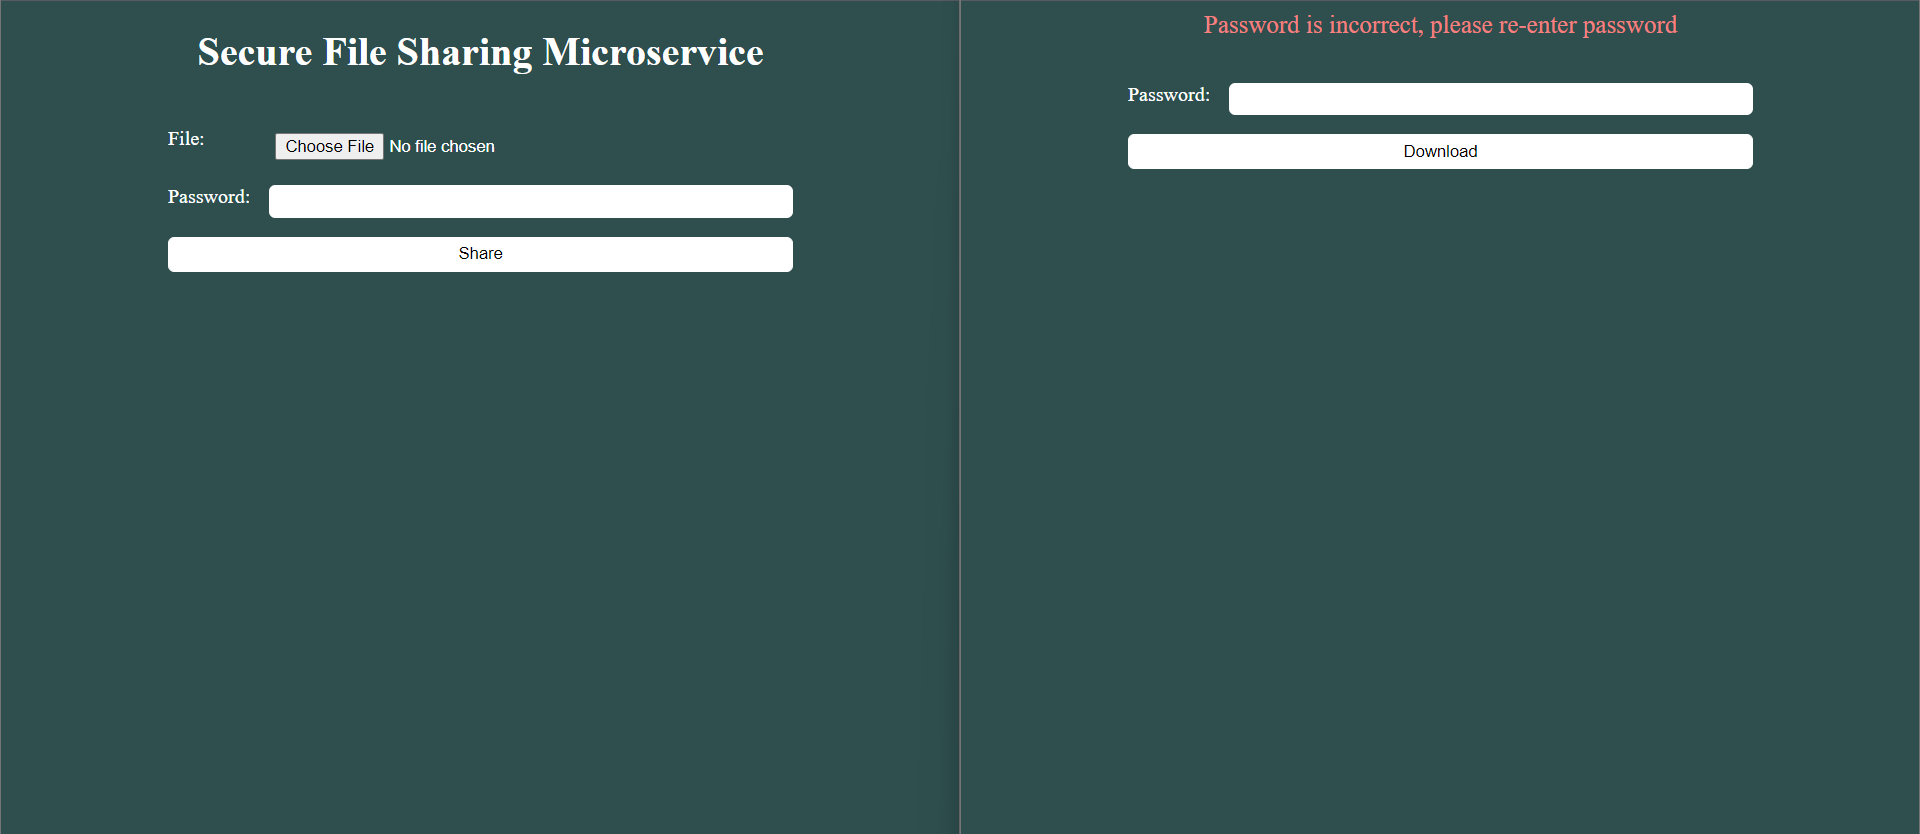
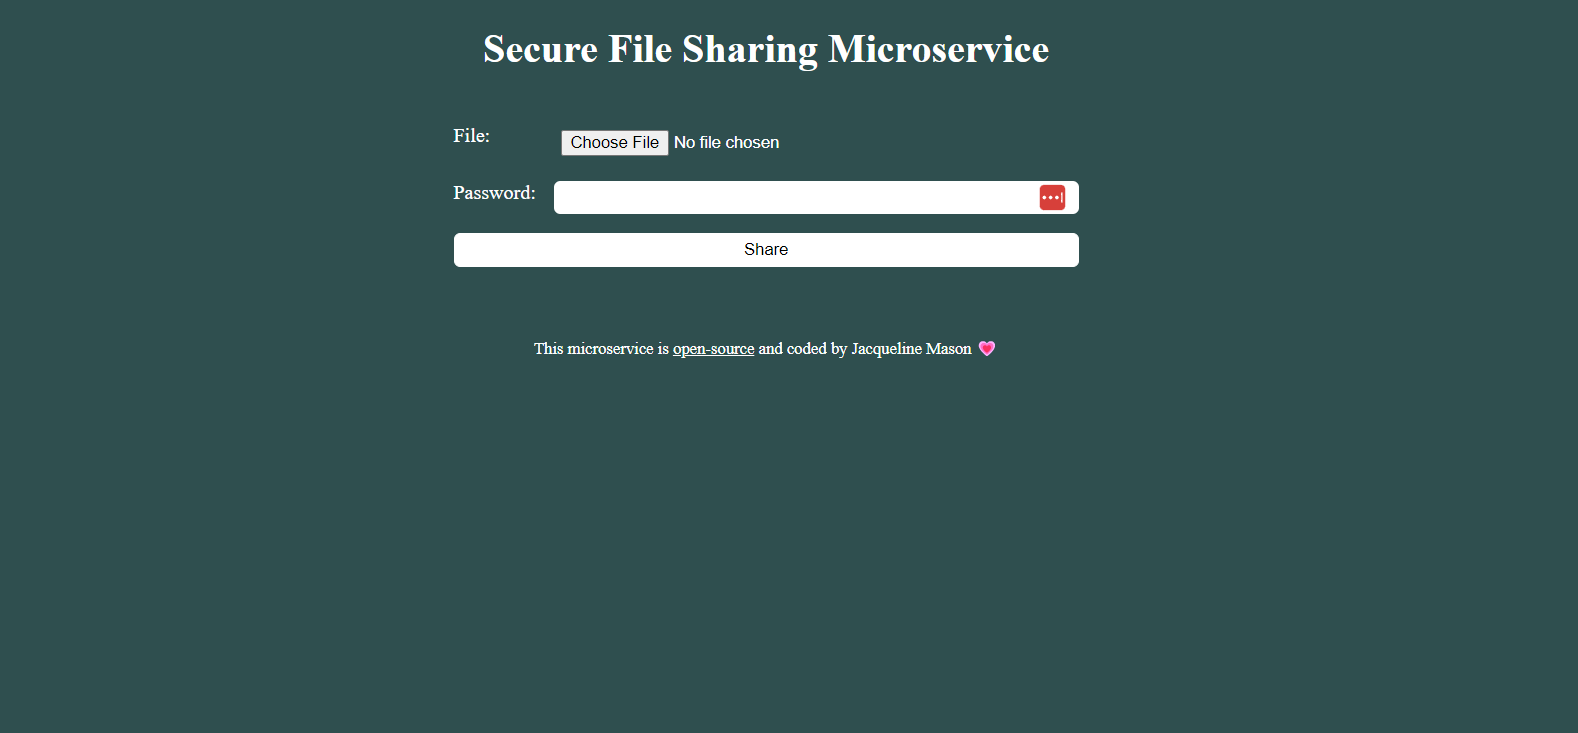
Finalized pages and added images to  Other Projects page

diff --git a/index.html b/index.html
@@ -69,8 +69,9 @@
           />
           <p>
             <i class="fa-solid fa-terminal"></i> Web Developer <br />
-            <i class="fa-solid fa-terminal"></i> Entrepreneurial <br />
-            <i class="fa-solid fa-terminal"></i> Mother <br />
+            <i class="fa-solid fa-terminal"></i> Business Woman <br />
+            <i class="fa-solid fa-terminal"></i> Twitch Streamer & Affiliate
+            <br />
             <i class="fa-solid fa-terminal"></i> PlayStation Gamer <br />
             <br />
           </p>
@@ -81,16 +82,20 @@
             as Rookie Behaviour, or simply... Rookie. No, it has nothing to do
             with my coding skills, but my gaming skills 😂.
           </p>
-          <br />
+
           <p>
             I started my coding journey in 2020 when I taught myself full-stack
             Software Development with freeCodeCamp online. I recently graduated
             from SheCodes where I received my Front-end Development
-            Certification. My interests include: <br />
+            Certification. I ran my own VA business for almost a decade before
+            changing careers so I have a heart for small businesses along with
+            non-profits. My interests include: <br />
             <br />
-            <i class="fa-solid fa-check"></i> Full-stack Web Development
-            <i class="fa-solid fa-check"></i> Front-end
+            <i class="fa-solid fa-check"></i> Full-Stack Web Development
+            <i class="fa-solid fa-check"></i> Front-End
             <i class="fa-solid fa-check"></i> Web Apps
+            <i class="fa-solid fa-check"></i> Responsive Web Design
+            <i class="fa-solid fa-check"></i> UI/UX
           </p>
         </div>
       </section>
@@ -291,7 +296,7 @@
                 </button>
                 <button class="btn btn-background-slide">
                   <a
-                    href="https://github.com/rookiebehaviour/world-clock"
+                    href="https://github.com/rookiebehaviour/superb-portfolio-react"
                     target="_blank"
                     >Source</a
                   >
@@ -342,10 +347,8 @@
               <h3>Cool Animated Buttons</h3>
               <p>Tools & technologies used:</p>
               <ul>
-                <li><i class="fa-solid fa-check"></i> Figma</li>
                 <li><i class="fa-solid fa-check"></i> HTML5</li>
                 <li><i class="fa-solid fa-check"></i> CSS3</li>
-                <li><i class="fa-solid fa-check"></i> Media Queries</li>
               </ul>
               <div class="buttons">
                 <button class="btn btn-background-slide">
@@ -368,26 +371,31 @@
 
           <div class="project-card">
             <div class="project-border">
-              <div class="project-image"></div>
-              <h3>Cool Animated Buttons</h3>
+              <div class="project-image">
+                <img
+                  src="/images/file-sharing-microservice.png"
+                  alt="Portfolio website"
+                />
+              </div>
+              <h3>Secure File Share Microservice</h3>
               <p>Tools & technologies used:</p>
               <ul>
-                <li><i class="fa-solid fa-check"></i> Figma</li>
-                <li><i class="fa-solid fa-check"></i> HTML5</li>
-                <li><i class="fa-solid fa-check"></i> CSS3</li>
-                <li><i class="fa-solid fa-check"></i> Media Queries</li>
+                <li><i class="fa-solid fa-check"></i> Ejs</li>
+                <li><i class="fa-solid fa-check"></i> Node.js</li>
+                <li><i class="fa-solid fa-check"></i> MongoDB</li>
+                <li><i class="fa-solid fa-check"></i> Mongoose</li>
+                <li><i class="fa-solid fa-check"></i> Express</li>
+                <li><i class="fa-solid fa-check"></i> Bcrypt</li>
               </ul>
+              <p>
+                *I'm working on a hosted live demo, but for now you'll have to
+                fork it and host it on your own. You must have MongoDB
+                installed.
+              </p>
               <div class="buttons">
                 <button class="btn btn-background-slide">
                   <a
-                    href="https://codepen.io/jjmason/full/WNKJjKQ"
-                    target="_blank"
-                    >Launch</a
-                  >
-                </button>
-                <button class="btn btn-background-slide">
-                  <a
-                    href="https://github.com/rookiebehaviour/cool-animated-buttons"
+                    href="https://github.com/rookiebehaviour/file-share"
                     target="_blank"
                     >Source</a
                   >
@@ -398,56 +406,30 @@
 
           <div class="project-card">
             <div class="project-border">
-              <div class="project-image"></div>
-              <h3>Portfolio Template (Sneak Peak)</h3>
+              <div class="project-image">
+                <img src="/images/drum-machine.png" alt="Drum Machine" />
+              </div>
+              <h3>Fun Drum Machine</h3>
               <p>Tools & technologies used:</p>
               <ul>
                 <li><i class="fa-solid fa-check"></i> React</li>
-                <li><i class="fa-solid fa-check"></i> Material UI</li>
-                <li><i class="fa-solid fa-check"></i> CSS3</li>
-                <li><i class="fa-solid fa-check"></i> Media Queries</li>
+                <li><i class="fa-solid fa-check"></i> SCSS</li>
               </ul>
-              <div class="buttons">
-                <button class="btn btn-background-slide">
-                  <a
-                    href="https://codepen.io/jjmason/full/WNKJjKQ"
-                    target="_blank"
-                    >Launch</a
-                  >
-                </button>
-                <button class="btn btn-background-slide">
-                  <a
-                    href="https://github.com/rookiebehaviour/cool-animated-buttons"
-                    target="_blank"
-                    >Source</a
-                  >
-                </button>
-              </div>
-            </div>
-          </div>
+              <p>
+                *An oldie, but a goodie. One of my first React Apps from 2020.
+              </p>
 
-          <div class="project-card">
-            <div class="project-border">
-              <div class="project-image"></div>
-              <h3>Cool Animated Buttons</h3>
-              <p>Tools & technologies used:</p>
-              <ul>
-                <li><i class="fa-solid fa-check"></i> Figma</li>
-                <li><i class="fa-solid fa-check"></i> HTML5</li>
-                <li><i class="fa-solid fa-check"></i> CSS3</li>
-                <li><i class="fa-solid fa-check"></i> Media Queries</li>
-              </ul>
               <div class="buttons">
                 <button class="btn btn-background-slide">
                   <a
-                    href="https://codepen.io/jjmason/full/WNKJjKQ"
+                    href="https://codepen.io/jjmason/pen/ExgrMGJ"
                     target="_blank"
                     >Launch</a
                   >
                 </button>
                 <button class="btn btn-background-slide">
                   <a
-                    href="https://github.com/rookiebehaviour/cool-animated-buttons"
+                    href="https://codepen.io/jjmason/full/ExgrMGJ"
                     target="_blank"
                     >Source</a
                   >
@@ -455,6 +437,10 @@
               </div>
             </div>
           </div>
+          <p>
+            If you want to see more projects, please see my Github page. Thank
+            you!
+          </p>
         </div>
       </section>
       <section id="contact" class="contact">
@@ -500,7 +486,8 @@
           <ul>
             <h5>Technologies</h5>
             <li>React.js</li>
-            <li>Svelte</li>
+            <li>Node.js</li>
+            <li>Svelte (Projects coming soon)</li>
             <li>Bootstrap</li>
             <li>Frontend Frameworks</li>
             <li>Responsive Development</li>

diff --git a/style.css b/style.css
@@ -284,6 +284,10 @@ footer li p {
   margin-top: 2rem;
 }
 
+.project-card {
+  width: 525px;
+}
+
 .project-image {
   width: 100%;
   display: flex;
@@ -306,6 +310,10 @@ footer li p {
   align-items: center;
   justify-content: center;
   background: rgba(0, 0, 0, 0.1);
+}
+
+.other-projects {
+  padding-bottom: 2rem;
 }
 
 .socials {
